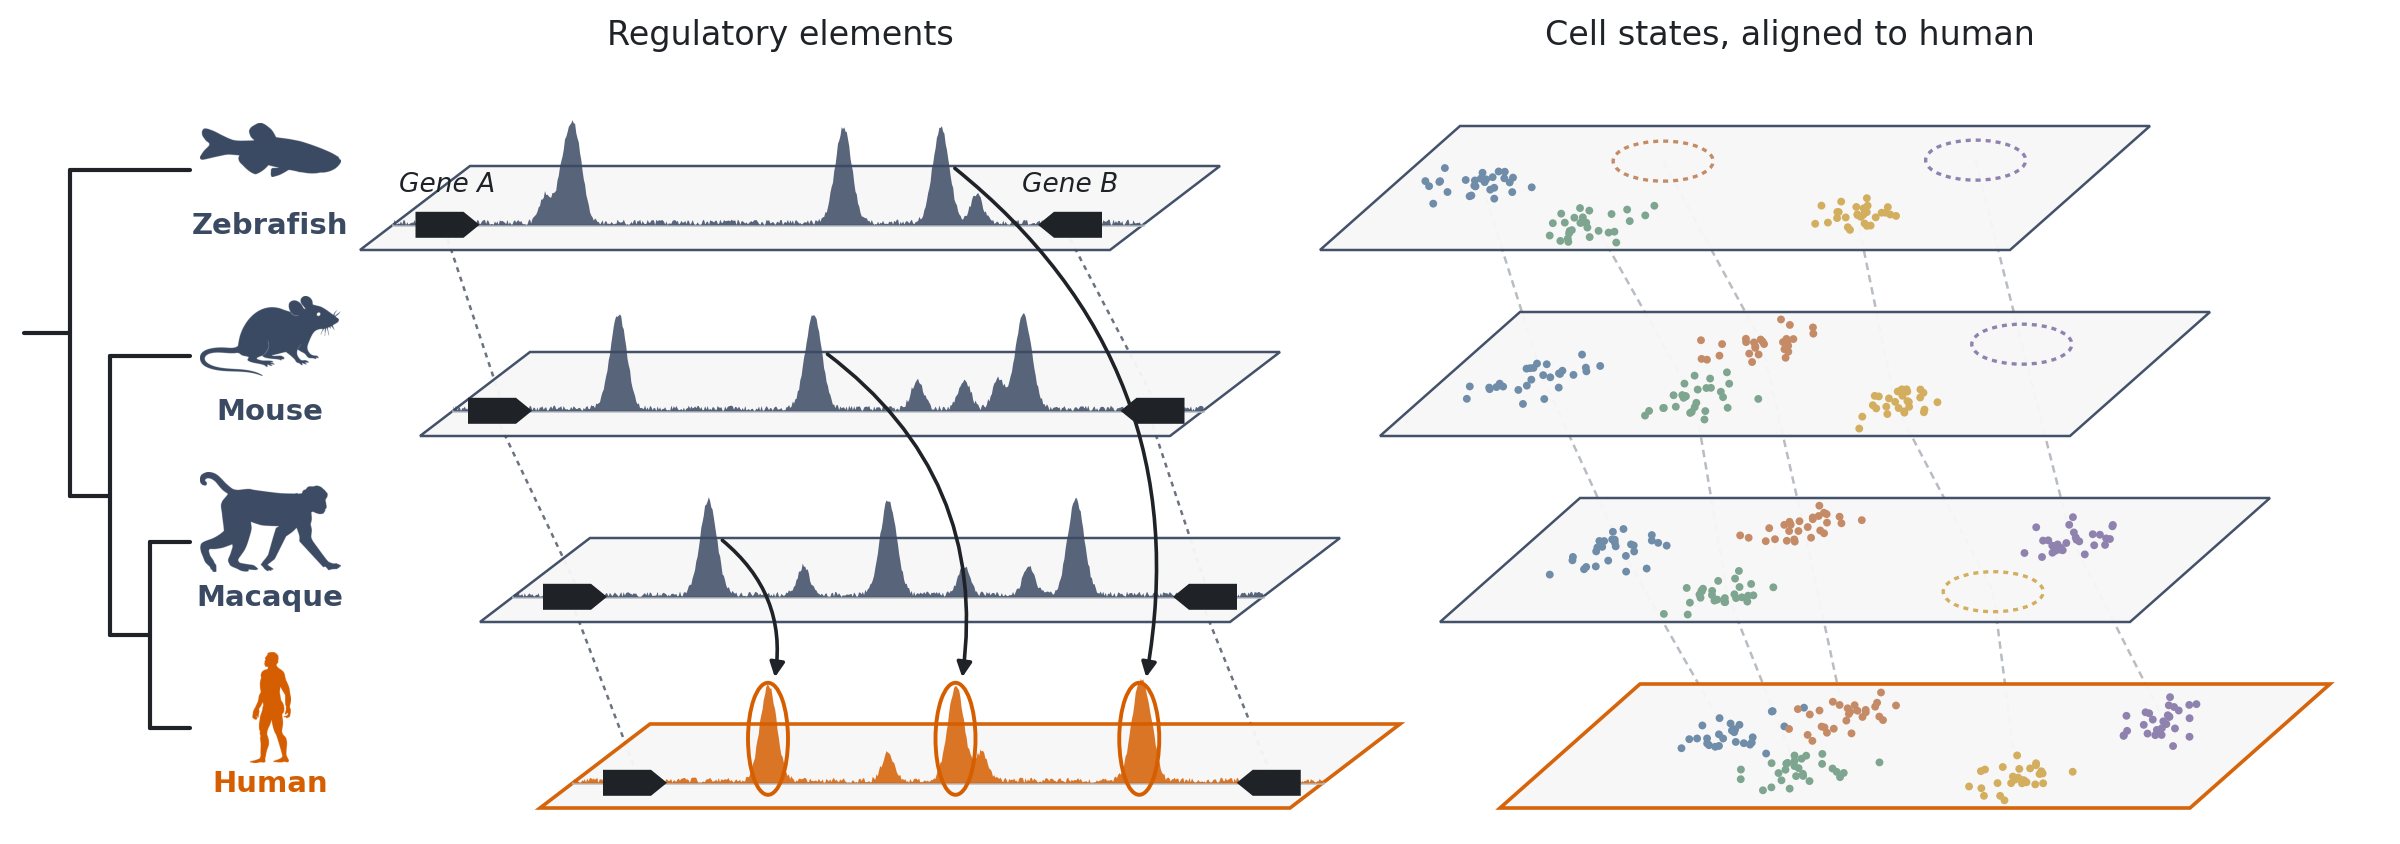
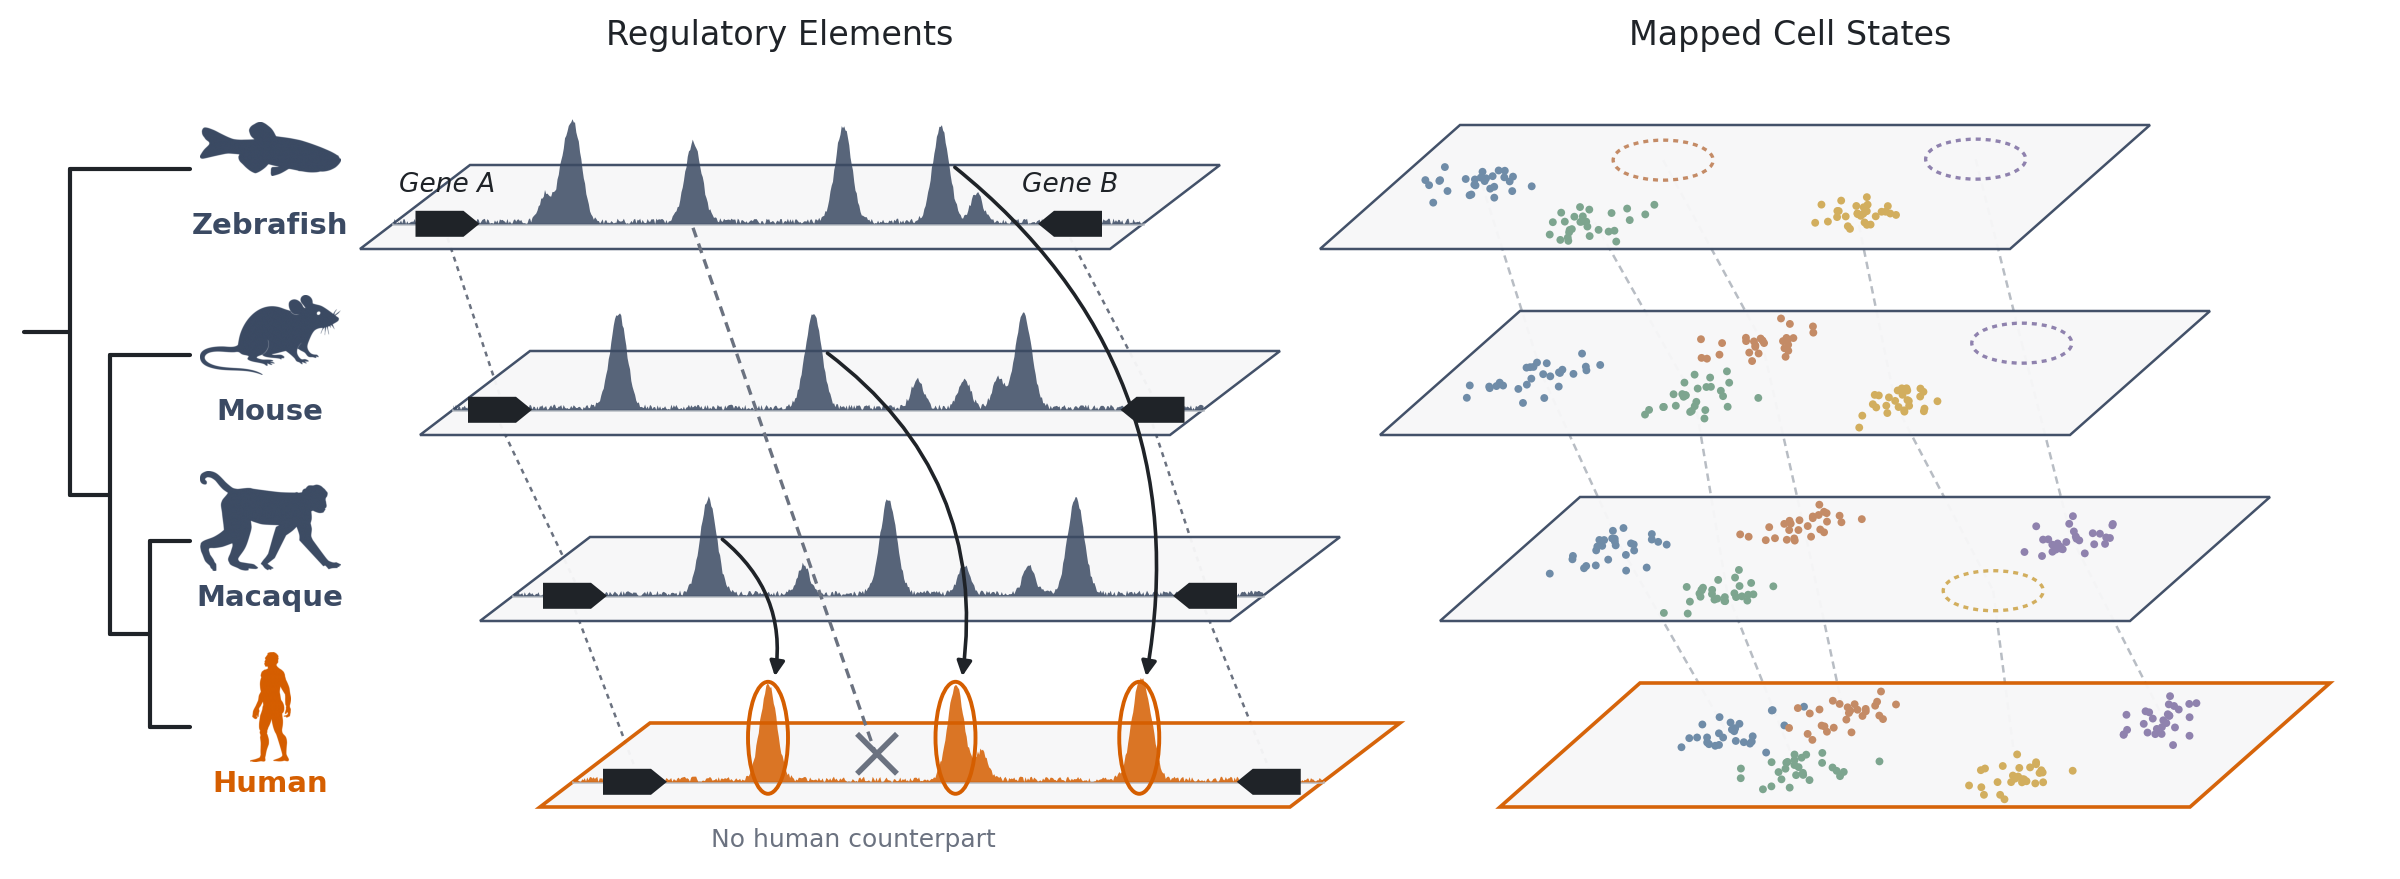
CRISPR panel, centered tree with its key, more dropout; elongated tissue, dramatic signal scale; no-map example, Mapped Cell States

diff --git a/bin/make_research_art.py b/bin/make_research_art.py
@@ -92,58 +92,83 @@ def text(ax, x, y, s, **kw):
 
 
 # =============================== 1. lineage ===============================
-# A lineage tree drawn with a cell at every division and at every sampled tip. Division times vary and
-# the tree is unbalanced, as a real one is. Each cell carries the same recorder integrations in its
-# nucleus; a division writes a new edit into one integration of a daughter (the newest edit in each
-# cell is ringed), so edits accumulate down the tree. On the right the sampled cells are sequenced,
-# which reads their records out as the rows of a character matrix.
+# Left: how an edit is written. Cas9, guided by its RNA, cuts a recorder integration and the repair
+# leaves a heritable edit. Middle: a lineage tree drawn with a cell at every division and every sampled
+# tip, division times varying and the tree unbalanced, as a real one is. Each cell carries the same
+# integrations in its nucleus; each division writes a new edit into one integration of a daughter
+# (ringed), so the edits accumulate down the tree. Right: the sampled cells are sequenced, and their
+# records are read out as the rows of a character matrix, with the dropouts a real readout has.
 fig, ax = canvas()
 rng = np.random.default_rng(9)
 NSITE = 5
 UNEDITED = "#2B2F36"
 NEW = ACCENT
 TIPY = 0.6
-# the tree: name -> (x, y of the cell, children); y is the time of division, tips sit at sampling time
+
+# ---------------- CRISPR writing an edit ----------------
+def dna(x0, x1, y, target_col, target_x):
+    ax.plot([x0, x1], [y + 0.05, y + 0.05], color=MUTED, lw=2.2, solid_capstyle="round", zorder=2)
+    ax.plot([x0, x1], [y - 0.05, y - 0.05], color=MUTED, lw=2.2, solid_capstyle="round", zorder=2)
+    for xx in np.arange(x0 + 0.06, x1, 0.09):
+        ax.plot([xx, xx], [y - 0.05, y + 0.05], color=GREY, lw=0.8, zorder=1)
+    ax.add_patch(Rectangle((target_x - 0.16, y - 0.09), 0.32, 0.18, fc=target_col, ec="none", zorder=3))
+
+
+dna(0.25, 2.35, 2.55, UNEDITED, 1.3)
+text(ax, 1.3, 2.26, "Integration", fontsize=10, color=MUTED)
+# Cas9 sitting on the target, with its guide RNA
+ax.add_patch(matplotlib.patches.FancyBboxPatch((0.88, 2.66), 0.84, 0.52, boxstyle="round,pad=0.02,rounding_size=0.22",
+                                               fc="#DCD6E8", ec="#8E86A8", lw=1.1, zorder=4))
+text(ax, 1.3, 2.97, "Cas9", fontsize=10.5, color=INK)
+gx = np.linspace(1.05, 1.55, 40)
+ax.plot(gx, 2.74 + 0.05 * np.sin((gx - 1.05) * 18), color=ACCENT, lw=1.4, zorder=5)
+text(ax, 2.05, 3.22, "Guide RNA", fontsize=9.5, color=ACCENT, ha="left")
+ax.plot([1.72, 2.03], [2.8, 3.15], color=ACCENT, lw=0.8, zorder=5)
+ax.add_patch(FancyArrowPatch((1.3, 2.05), (1.3, 1.55), arrowstyle="-|>", mutation_scale=13, color=INK, lw=1.4))
+text(ax, 1.45, 1.8, "Cut and repair", fontsize=10, color=MUTED, ha="left")
+dna(0.25, 2.35, 1.2, IDENT[0], 1.3)
+ax.add_patch(Rectangle((1.3 - 0.21, 1.2 - 0.14), 0.42, 0.28, fc="none", ec=NEW, lw=1.8, zorder=4))
+text(ax, 1.3, 0.86, "Heritable edit", fontsize=10, color=INK)
+
+# ---------------- the tree ----------------
 TREE = {
-    "r": (3.95, 3.2, ["A", "B"]),
-    "A": (2.1, 2.3, ["A1", "t3"]),
-    "A1": (1.4, 1.45, ["t1", "t2"]),
-    "B": (5.75, 2.42, ["B1", "B2"]),
-    "B1": (4.85, 1.55, ["t4", "t5"]),
-    "B2": (6.75, 1.45, ["t6", "t7"]),
+    "r": (5.95, 3.2, ["A", "B"]),
+    "A": (4.6, 2.3, ["A1", "t3"]),
+    "A1": (4.05, 1.45, ["t1", "t2"]),
+    "B": (7.4, 2.42, ["B1", "B2"]),
+    "B1": (6.56, 1.55, ["t4", "t5"]),
+    "B2": (8.21, 1.45, ["t6", "t7"]),
 }
 TIPS = ["t1", "t2", "t3", "t4", "t5", "t6", "t7"]
-TIPX = dict(zip(TIPS, [0.95, 1.85, 3.0, 4.35, 5.3, 6.3, 7.25]))
+TIPX = dict(zip(TIPS, [3.55, 4.38, 5.25, 6.15, 6.98, 7.8, 8.62]))
 
 
-def cell(x, y, sites, new=None, rx=0.4, ry=0.31, seed=0):
+def cell(x, y, sites, new=None, rx=0.36, ry=0.29, seed=0):
     """A cell with an irregular outline, and a nucleus holding the integration sites."""
     r = np.random.default_rng(seed)
     th = np.linspace(0, 2 * np.pi, 120)
     wob = 1 + 0.07 * np.sin(3 * th + r.uniform(0, 6)) + 0.05 * np.cos(5 * th + r.uniform(0, 6)) \
         + 0.03 * np.sin(7 * th + r.uniform(0, 6))
     ax.add_patch(Polygon(np.c_[x + rx * wob * np.cos(th), y + ry * wob * np.sin(th)], closed=True,
-                         fc="#F6EFF3", ec="#8E8395", lw=1.2, zorder=3))
+                         fc="#F6EFF3", ec="#8E8395", lw=1.1, zorder=3))
     nx, ny = x + r.normal(0, 0.02), y + r.normal(0, 0.015)
-    ax.add_patch(matplotlib.patches.Ellipse((nx, ny), 0.54, 0.34, angle=r.uniform(-8, 8),
-                                            fc="#E6DDEA", ec="#A497AD", lw=0.9, zorder=4))
-    w, gap = 0.062, 0.024
+    ax.add_patch(matplotlib.patches.Ellipse((nx, ny), 0.5, 0.31, angle=r.uniform(-8, 8),
+                                            fc="#E6DDEA", ec="#A497AD", lw=0.8, zorder=4))
+    w, gap = 0.056, 0.022
     x0 = nx - (NSITE * w + (NSITE - 1) * gap) / 2
     for s in range(NSITE):
         c = sites[s] if sites[s] is not None else UNEDITED
-        ax.add_patch(Rectangle((x0 + s * (w + gap), ny - 0.095), w, 0.19, fc=c, ec="none", zorder=5))
+        ax.add_patch(Rectangle((x0 + s * (w + gap), ny - 0.085), w, 0.17, fc=c, ec="none", zorder=5))
         if s == new:                                            # the edit this cell's division wrote
-            ax.add_patch(Rectangle((x0 + s * (w + gap) - 0.025, ny - 0.12), w + 0.05, 0.24, fc="none",
-                                   ec=NEW, lw=1.8, zorder=6))
+            ax.add_patch(Rectangle((x0 + s * (w + gap) - 0.022, ny - 0.11), w + 0.044, 0.22, fc="none",
+                                   ec=NEW, lw=1.6, zorder=6))
 
 
 def branch(x0, y0, x1, y1):
-    """A smooth branch from the bottom of a parent cell to the top of a daughter."""
     t = np.linspace(0, 1, 40)
-    ya, yb = y0 - 0.3, y1 + 0.3
-    xs_ = x0 + (x1 - x0) * (3 * t ** 2 - 2 * t ** 3)
-    ys_ = ya + (yb - ya) * t
-    ax.plot(xs_, ys_, color=INK, lw=1.4, solid_capstyle="round", zorder=2)
+    ya, yb = y0 - 0.28, y1 + 0.28
+    ax.plot(x0 + (x1 - x0) * (3 * t ** 2 - 2 * t ** 3), ya + (yb - ya) * t, color=INK, lw=1.3,
+            solid_capstyle="round", zorder=2)
 
 
 RECORD = {}
@@ -151,10 +176,7 @@ RECORD = {}
 
 def grow(name, sites, new, seed):
     RECORD[name] = sites
-    if name in TREE:
-        x, y, kids = TREE[name]
-    else:
-        x, y, kids = TIPX[name], TIPY, []
+    x, y, kids = TREE[name] if name in TREE else (TIPX[name], TIPY, [])
     cell(x, y, sites, new, seed=seed)
     for k, kid in enumerate(kids):
         child = list(sites)
@@ -170,38 +192,35 @@ def grow(name, sites, new, seed):
 
 grow("r", [None] * NSITE, None, 1)
 for i, t in enumerate(TIPS):
-    text(ax, TIPX[t], TIPY - 0.45, str(i + 1), fontsize=10.5, color=MUTED)
-ax.add_patch(FancyArrowPatch((0.32, 3.4), (0.32, 0.35), arrowstyle="-|>", mutation_scale=12, color=GREY, lw=1.2))
-text(ax, 0.12, 1.9, "Time", fontsize=11, rotation=90)
+    text(ax, TIPX[t], TIPY - 0.42, str(i + 1), fontsize=10, color=MUTED)
+ax.add_patch(FancyArrowPatch((3.05, 3.4), (3.05, 0.35), arrowstyle="-|>", mutation_scale=12, color=GREY, lw=1.2))
+text(ax, 2.87, 1.9, "Time", fontsize=10.5, rotation=90)
+# the tree's key sits with the tree, in the space beside the root
+KX, KY = 3.35, 3.28
+ax.add_patch(Rectangle((KX, KY - 0.08), 0.06, 0.16, fc=UNEDITED, ec="none"))
+text(ax, KX + 0.14, KY, "Unedited", fontsize=9.5, ha="left")
+for j, c in enumerate(ALLELES[:3]):
+    ax.add_patch(Rectangle((KX + j * 0.075, KY - 0.43), 0.06, 0.16, fc=c, ec="none"))
+text(ax, KX + 0.29, KY - 0.35, "Edited", fontsize=9.5, ha="left")
+ax.add_patch(Rectangle((KX, KY - 0.78), 0.06, 0.16, fc=IDENT[0], ec="none"))
+ax.add_patch(Rectangle((KX - 0.025, KY - 0.805), 0.11, 0.21, fc="none", ec=NEW, lw=1.6))
+text(ax, KX + 0.14, KY - 0.7, "Newest edit", fontsize=9.5, ha="left")
 
-# sequencing: the sampled cells' records read out as the rows of a character matrix
-ax.add_patch(FancyArrowPatch((7.85, 1.85), (8.6, 1.85), arrowstyle="-|>", mutation_scale=16, color=INK, lw=1.6))
-text(ax, 8.22, 2.15, "Sequence", fontsize=11, color=INK)
-MX, MY, cw, ch = 9.05, 3.0, 0.3, 0.3
+# ---------------- sequencing ----------------
+ax.add_patch(FancyArrowPatch((9.05, 1.85), (9.5, 1.85), arrowstyle="-|>", mutation_scale=15, color=INK, lw=1.5))
+text(ax, 9.27, 2.13, "Sequence", fontsize=10.5, color=INK)
+MX, MY, cw, ch = 9.95, 2.95, 0.3, 0.29
 for i, t in enumerate(TIPS):
     y = MY - i * (ch + 0.06)
-    text(ax, MX - 0.18, y + ch / 2, str(i + 1), fontsize=10, color=MUTED)
+    text(ax, MX - 0.17, y + ch / 2, str(i + 1), fontsize=10, color=MUTED)
     for s in range(NSITE):
         c = RECORD[t][s] if RECORD[t][s] is not None else UNEDITED
-        if rng.random() < 0.06:
+        if rng.random() < 0.2:
             c = DROPOUT                                        # the readout failed at this site
         ax.add_patch(Rectangle((MX + s * (cw + 0.05), y), cw, ch, fc=c, ec="none", zorder=3))
-text(ax, MX + NSITE * (cw + 0.05) / 2, 3.52, "Sequenced records", fontsize=11, color=INK)
-# key
-KX = 11.0
-for k, (lab, draw) in enumerate((("Unedited", "u"), ("Edited", "e"), ("Newest\nedit", "n"), ("Dropout", "d"))):
-    y = 2.95 - k * 0.55
-    if draw == "u":
-        ax.add_patch(Rectangle((KX, y - 0.1), 0.07, 0.2, fc=UNEDITED, ec="none"))
-    elif draw == "e":
-        for j, c in enumerate(ALLELES[:3]):
-            ax.add_patch(Rectangle((KX + j * 0.085 - 0.07, y - 0.1), 0.065, 0.2, fc=c, ec="none"))
-    elif draw == "n":
-        ax.add_patch(Rectangle((KX, y - 0.1), 0.07, 0.2, fc=IDENT[0], ec="none"))
-        ax.add_patch(Rectangle((KX - 0.03, y - 0.13), 0.13, 0.26, fc="none", ec=NEW, lw=1.8))
-    else:
-        ax.add_patch(Rectangle((KX, y - 0.1), 0.07, 0.2, fc=DROPOUT, ec="none"))
-    text(ax, KX + 0.2, y, lab, fontsize=9.5, ha="left")
+text(ax, MX + NSITE * (cw + 0.05) / 2, 3.45, "Sequenced records", fontsize=11, color=INK)
+ax.add_patch(Rectangle((MX, 0.2), 0.16, 0.16, fc=DROPOUT, ec="none"))
+text(ax, MX + 0.26, 0.28, "Dropout", fontsize=9.5, ha="left")
 save(fig, "lineage.png")
 
 # =============================== 2. fate ===============================
@@ -222,11 +241,13 @@ GENS, CLONE_GEN, EARLY_GEN = 9, 3, 6
 
 
 def relax(p, iters=30):
+    """Overlapping cells push apart; a weak confinement across the tissue makes it grow long."""
     for _ in range(iters):
         d = p[:, None, :] - p[None, :, :]
         r = np.hypot(d[..., 0], d[..., 1]) + np.eye(len(p)) * 9
         over = np.clip(1.0 - r, 0, None)
         p = p + 0.25 * (d / r[..., None] * over[..., None]).sum(1)
+        p[:, 1] -= 0.012 * p[:, 1]
     return p
 
 
@@ -247,6 +268,15 @@ for g in range(1, GENS + 1):
     if g == EARLY_GEN:
         snap = dict(pos=pos.copy(), clone=clone.copy())
 
+# a gentle bend, so the tissue is not a plain ellipse
+def bend(p):
+    q = p.copy()
+    q[:, 1] += 0.012 * (q[:, 0] ** 2) - 0.06 * q[:, 0]
+    return q
+
+
+pos = bend(pos)
+snap["pos"] = bend(snap["pos"])
 XMIN, XMAX = pos[:, 0].min(), pos[:, 0].max()
 
 
@@ -258,7 +288,8 @@ fate = np.digitize(signal_of(pos) + bias + rs.normal(0, 0.05, len(pos)), [0.38, 
 
 CLONE_COLS = CLONE_SET
 FATE_COLS = IDENT_M[:3]                            # the same colors as States 1 to 3 in the transfer figure
-SIG_CMAP = matplotlib.colors.LinearSegmentedColormap.from_list("sig", ["#EEF0F3", "#A9B2C0", "#56637A"])
+# the signal has a scale of its own, pale gold to deep plum, shared with no other meaning
+SIG_CMAP = matplotlib.colors.LinearSegmentedColormap.from_list("sig", ["#FFF4C7", "#F2B35E", "#C8505F", "#5A1E5C"])
 
 
 def tissue(ax, cx, cy, scale, p, colors):
@@ -294,7 +325,7 @@ fig, ax = canvas()
 # early: two small tissues, clones and the signal they sit in
 early, eclone = snap["pos"], snap["clone"]
 # one scale for both stages, set so the grown tissue fills its panel; the early tissue is true to size
-SC = min(3.3 / np.ptp(pos[:, 0]), 2.45 / np.ptp(pos[:, 1]))
+SC = min(3.1 / np.ptp(pos[:, 0]), 2.45 / np.ptp(pos[:, 1]))
 tissue(ax, 1.15, 1.9, SC, early, [CLONE_COLS[c % 8] for c in eclone])
 tissue(ax, 3.2, 1.9, SC, early, [SIG_CMAP(v) for v in signal_of(early)])
 # late: the grown tissue, clones and the fate each cell took
@@ -308,6 +339,11 @@ for x0, x1, lab in ((0.3, 4.05, "Early"), (4.85, 11.85, "Late")):
          bbox=dict(boxstyle="square,pad=0.2", fc="white", ec="none"))
 for x, lab in ((1.15, "Clones"), (3.2, "Signal"), (6.45, "Clones"), (10.05, "Fates")):
     text(ax, x, 0.28, lab, fontsize=11.5, color=MUTED)
+# the signal's scale bar, under the signal panel
+sbar = np.linspace(0, 1, 200).reshape(1, -1)
+ax.imshow(sbar, extent=(2.55, 3.85, 0.02, 0.12), aspect="auto", cmap=SIG_CMAP, zorder=3)
+text(ax, 2.5, 0.07, "Low", fontsize=9, ha="right")
+text(ax, 3.9, 0.07, "High", fontsize=9, ha="left")
 # fate key
 for k, (c, lab) in enumerate(zip(FATE_COLS, ("Fate 1", "Fate 2", "Fate 3"))):
     ax.add_patch(Rectangle((8.95 + k * 0.85, 0.02), 0.16, 0.12, fc=c, ec="none"))
@@ -322,7 +358,7 @@ save(fig, "fate.png")
 # Human is the reference and has every state; each model organism lacks some of them (outlined).
 # Model organisms are drawn in neutrals and human in the accent, so the figure reads human-centered.
 SIL = os.path.join(os.path.dirname(os.path.abspath(__file__)), "silhouettes")
-W3, H3, Y3 = 12.0, 4.6, 0.38                     # the bottom strip, where a legend used to be, is cut
+W3, H3, Y3 = 12.0, 4.6, 0.2                      # room under the human plane for one label
 fig = plt.figure(figsize=(W3, H3 - Y3), dpi=DPI)
 ax = fig.add_axes([0, 0, 1, 1])
 ax.set_xlim(0, W3)
@@ -400,6 +436,7 @@ ELEM = {"zebrafish": [0.24, 0.6, 0.73], "mouse": [0.22, 0.48, 0.76], "macaque": 
 GA = {"zebrafish": 0.03, "mouse": 0.02, "macaque": 0.04, "human": 0.04}      # gene A, left flank
 GB = {"zebrafish": 0.86, "mouse": 0.89, "macaque": 0.88, "human": 0.885}     # gene B, reverse strand
 TRACK_B = 0.3                                    # the track runs along the plane at this depth
+NOMAP = 0.4                                      # a zebrafish element that maps to nothing in human
 aa = np.linspace(0.0, 1.0, 600)
 for k, (lab, key) in enumerate(SPECIES):
     draw_plane(Lk, k, key, 2 + k * 0.01)
@@ -407,7 +444,11 @@ for k, (lab, key) in enumerate(SPECIES):
     for e in ELEM[key]:
         sig += 0.5 * np.exp(-((aa - e) ** 2) / (2 * 0.011 ** 2))
     for e in rs.uniform(0.12, 0.8, 3):                                   # species-specific peaks
+        if key == "human" and abs(e - NOMAP) < 0.07:
+            continue
         sig += 0.15 * np.exp(-((aa - e) ** 2) / (2 * 0.008 ** 2))
+    if key == "zebrafish":                                              # an element with no human counterpart
+        sig += 0.42 * np.exp(-((aa - NOMAP) ** 2) / (2 * 0.011 ** 2))
     base = np.array([Lk(k, a, TRACK_B) for a in aa])
     ax.fill_between(base[:, 0], base[:, 1], base[:, 1] + 0.95 * sig, color=scol(key), alpha=0.85, lw=0, zorder=5)
     ax.plot(base[:, 0], base[:, 1], color=GREY, lw=0.9, zorder=4)
@@ -434,7 +475,14 @@ for k, j in zip(range(3), (2, 1, 0)):
                                  color=INK, lw=1.3, zorder=7))
     hx, hy = q
     ax.add_patch(matplotlib.patches.Ellipse((hx, hy + 0.22), 0.2, 0.56, fc="none", ec=ACCENT, lw=1.4, zorder=7))
-text(ax, 3.9, 4.42, "Regulatory elements", fontsize=12, color=INK)
+# the no-map example: the zebrafish element has no counterpart in human, so its line ends in a cross
+p = Lk(0, NOMAP, TRACK_B)
+q = Lk(3, NOMAP, TRACK_B)
+ax.plot([p[0], q[0] + 0.02], [p[1] - 0.02, q[1] + 0.12], color=MUTED, lw=1.2, ls=(0, (3, 2)), zorder=6)
+ax.plot([q[0] - 0.07, q[0] + 0.11], [q[1] + 0.05, q[1] + 0.23], color=MUTED, lw=2.0, zorder=7)
+ax.plot([q[0] - 0.07, q[0] + 0.11], [q[1] + 0.23, q[1] + 0.05], color=MUTED, lw=2.0, zorder=7)
+text(ax, q[0] - 0.1, ROW[3] - 0.26, "No human counterpart", fontsize=9, color=MUTED)
+text(ax, 3.9, 4.42, "Regulatory Elements", fontsize=12, color=INK)
 
 # ---------------- right: a stack of embedding planes, one cluster per cell state ----------------
 STATES = [("State %d" % (j + 1), IDENT_M[j], ca, cb) for j, (ca, cb) in
@@ -459,7 +507,7 @@ for k, (lab, key) in enumerate(SPECIES):
 for ca, cb in zip(CENT, CENT[1:]):
     for j in range(len(STATES)):
         ax.plot([ca[j][0], cb[j][0]], [ca[j][1], cb[j][1]], color=GREY, lw=0.9, ls=(0, (3, 2)), zorder=1)
-text(ax, 8.95, 4.42, "Cell states, aligned to human", fontsize=12, color=INK)
+text(ax, 8.95, 4.42, "Mapped Cell States", fontsize=12, color=INK)
 fig.savefig(os.path.join(OUT, "transfer.png"), dpi=DPI, facecolor="white")
 plt.close(fig)
 print("wrote", sorted(os.listdir(OUT)))
